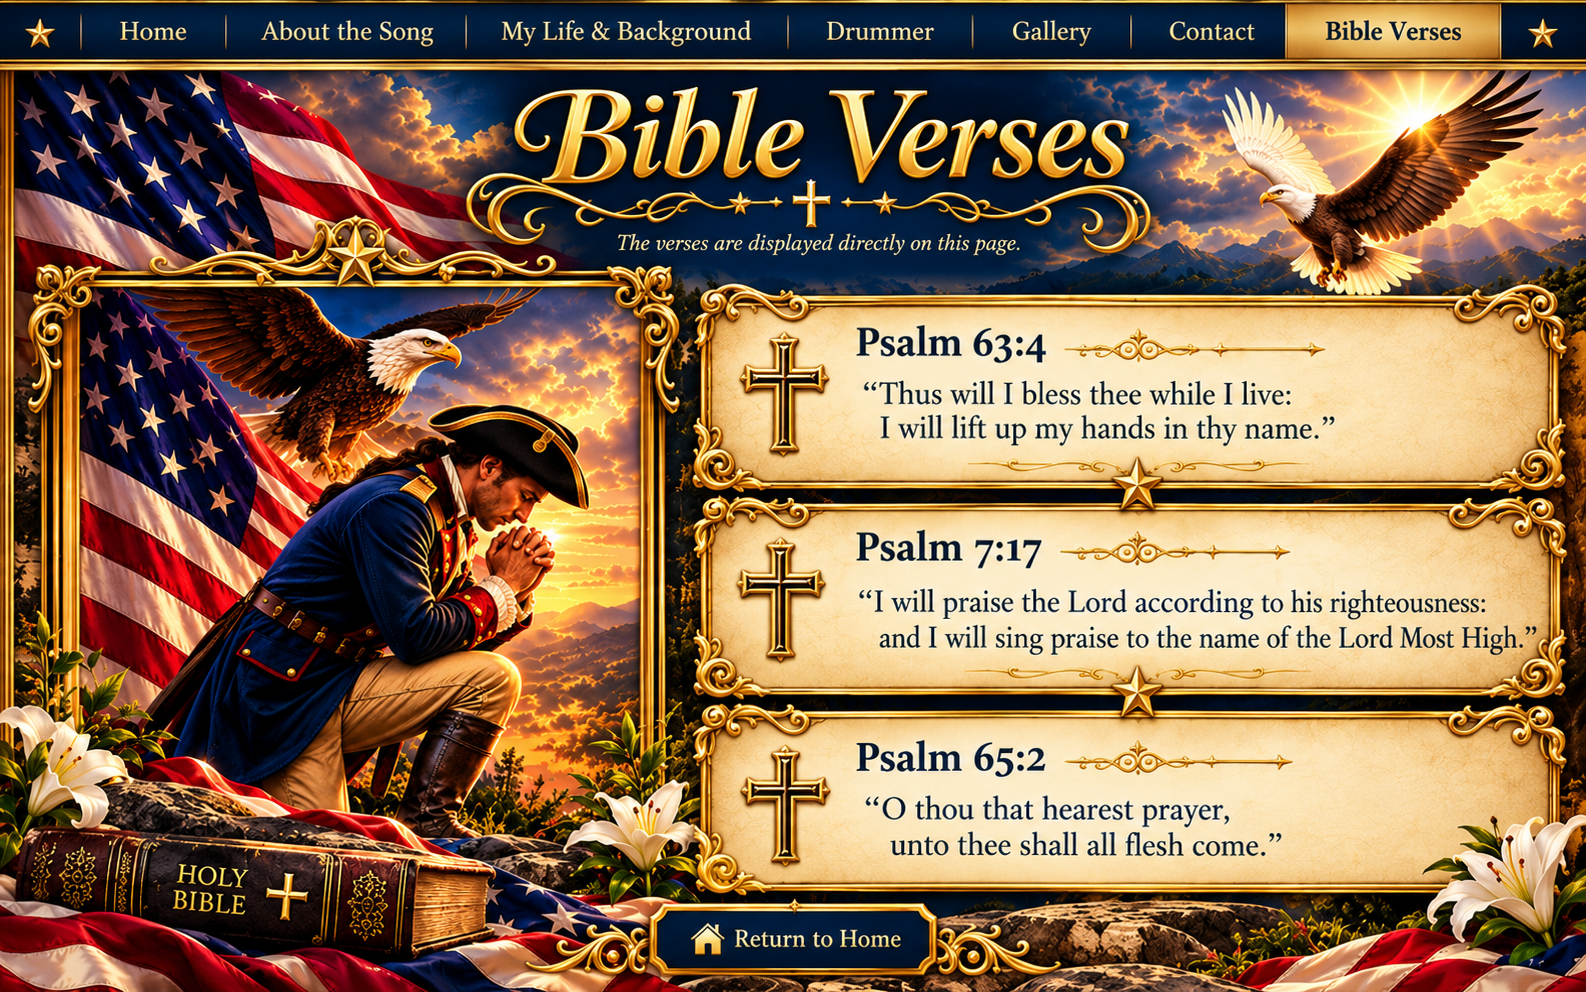
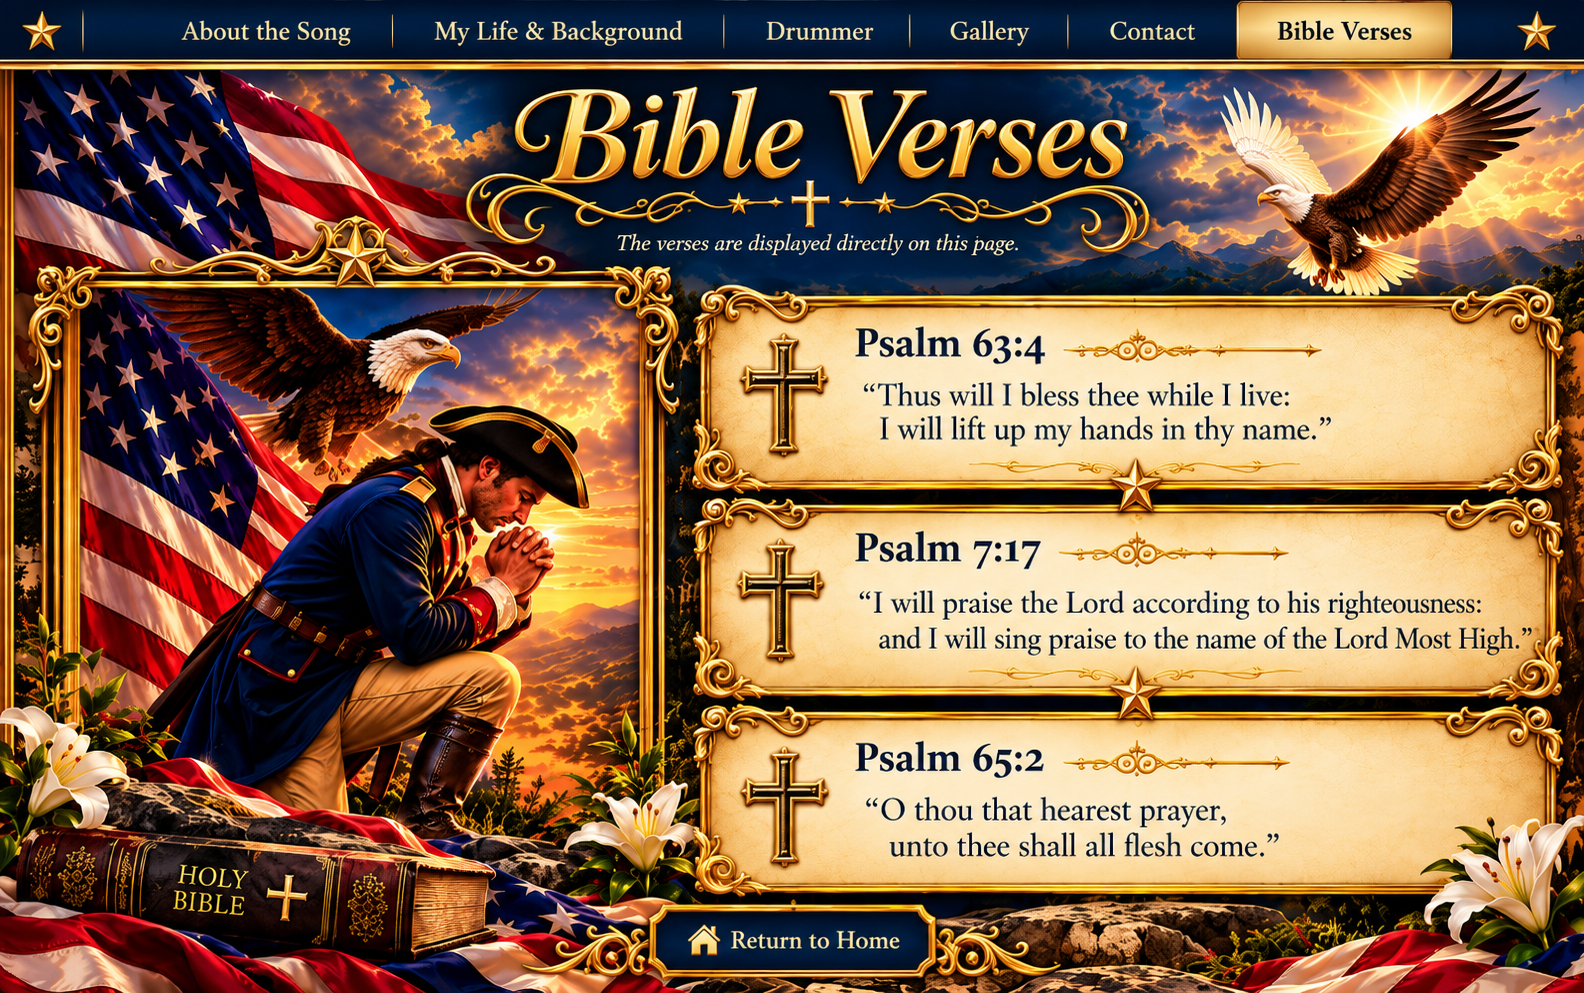
Add files via upload

diff --git a/bible-verses.html b/bible-verses.html
@@ -1,1 +1,2 @@
-<!doctype html><html lang="en"><head><meta charset="utf-8"><meta name="viewport" content="width=device-width, initial-scale=1"><title>Bible Verses — Drum Protocol</title><style>html,body{margin:0;background:#081a35}main{position:relative;max-width:1586px;margin:auto}img{display:block;width:100%;height:auto}a.hot{position:absolute;display:block;z-index:3;cursor:pointer}a.hot:focus-visible{outline:3px solid white;outline-offset:-3px}.sr-only{position:absolute;width:1px;height:1px;overflow:hidden;clip:rect(0,0,0,0);white-space:nowrap}</style></head><body><main><img src="Bible-Verses-Corrected.png" alt="Ornate patriotic Bible verses page with three Psalms, an eagle, American flag, and a praying Revolutionary soldier"><nav aria-label="Page navigation"><a class="hot" href="index.html" style="left:34%;top:0;width:8%;height:5.8%" aria-label="Home"></a><a class="hot" href="trump-response.html" style="left:43%;top:0;width:17%;height:5.8%" aria-label="Trump and Response"></a><a class="hot" href="gallery.html" style="left:61%;top:0;width:9%;height:5.8%" aria-label="Gallery"></a></nav><a class="hot" href="index.html" style="left:40%;top:87%;width:20%;height:8%" aria-label="Return to Home"></a><div class="sr-only"><h1>Bible Verses</h1><h2>Psalm 63:4</h2><p>Thus will I bless thee while I live: I will lift up my hands in thy name.</p><h2>Psalm 7:17</h2><p>I will praise the Lord according to his righteousness: and I will sing praise to the name of the Lord Most High.</p><h2>Psalm 65:2</h2><p>O thou that hearest prayer, unto thee shall all flesh come.</p></div></main></body></html>
+<!DOCTYPE html>
+<html lang="en"><head><meta charset="utf-8"/><meta content="width=device-width, initial-scale=1" name="viewport"/><title>Bible Verses — Drum Protocol</title><style>html,body{margin:0;background:#081a35}main{position:relative;max-width:1586px;margin:auto}img{display:block;width:100%;height:auto}a.hot{position:absolute;display:block;z-index:3;cursor:pointer}a.hot:focus-visible{outline:3px solid white;outline-offset:-3px}.sr-only{position:absolute;width:1px;height:1px;overflow:hidden;clip:rect(0,0,0,0);white-space:nowrap}</style></head><body><main><img alt="Ornate patriotic Bible verses page with three Psalms, an eagle, American flag, and a praying Revolutionary soldier" src="Bible-Verses-Corrected.png"/><a aria-label="Return to Home" class="hot" href="index.html" style="left:41%;top:90%;width:19%;height:9%"></a><div class="sr-only"><h1>Bible Verses</h1><h2>Psalm 63:4</h2><p>Thus will I bless thee while I live: I will lift up my hands in thy name.</p><h2>Psalm 7:17</h2><p>I will praise the Lord according to his righteousness: and I will sing praise to the name of the Lord Most High.</p><h2>Psalm 65:2</h2><p>O thou that hearest prayer, unto thee shall all flesh come.</p></div></main></body></html>
